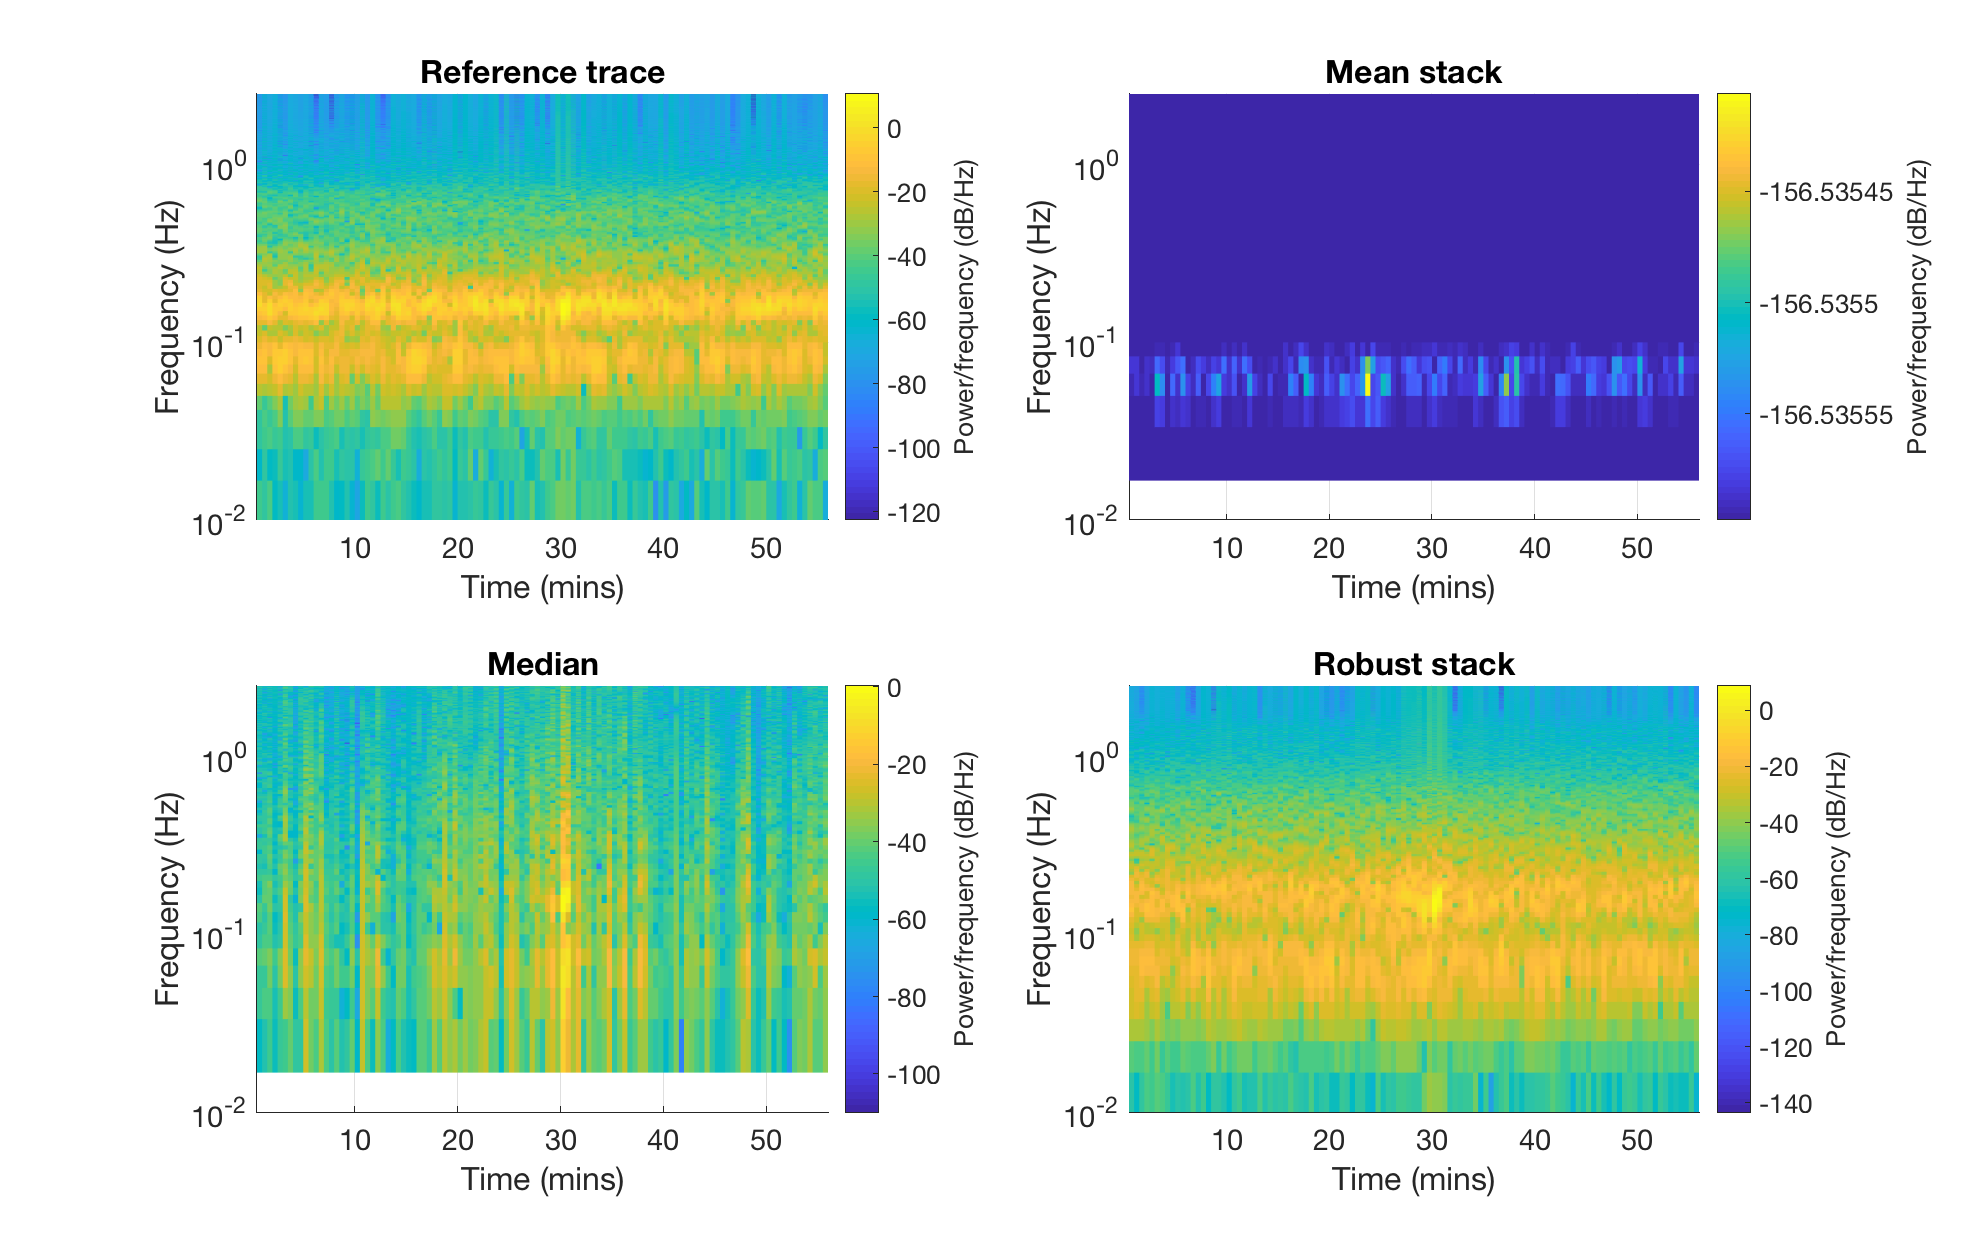
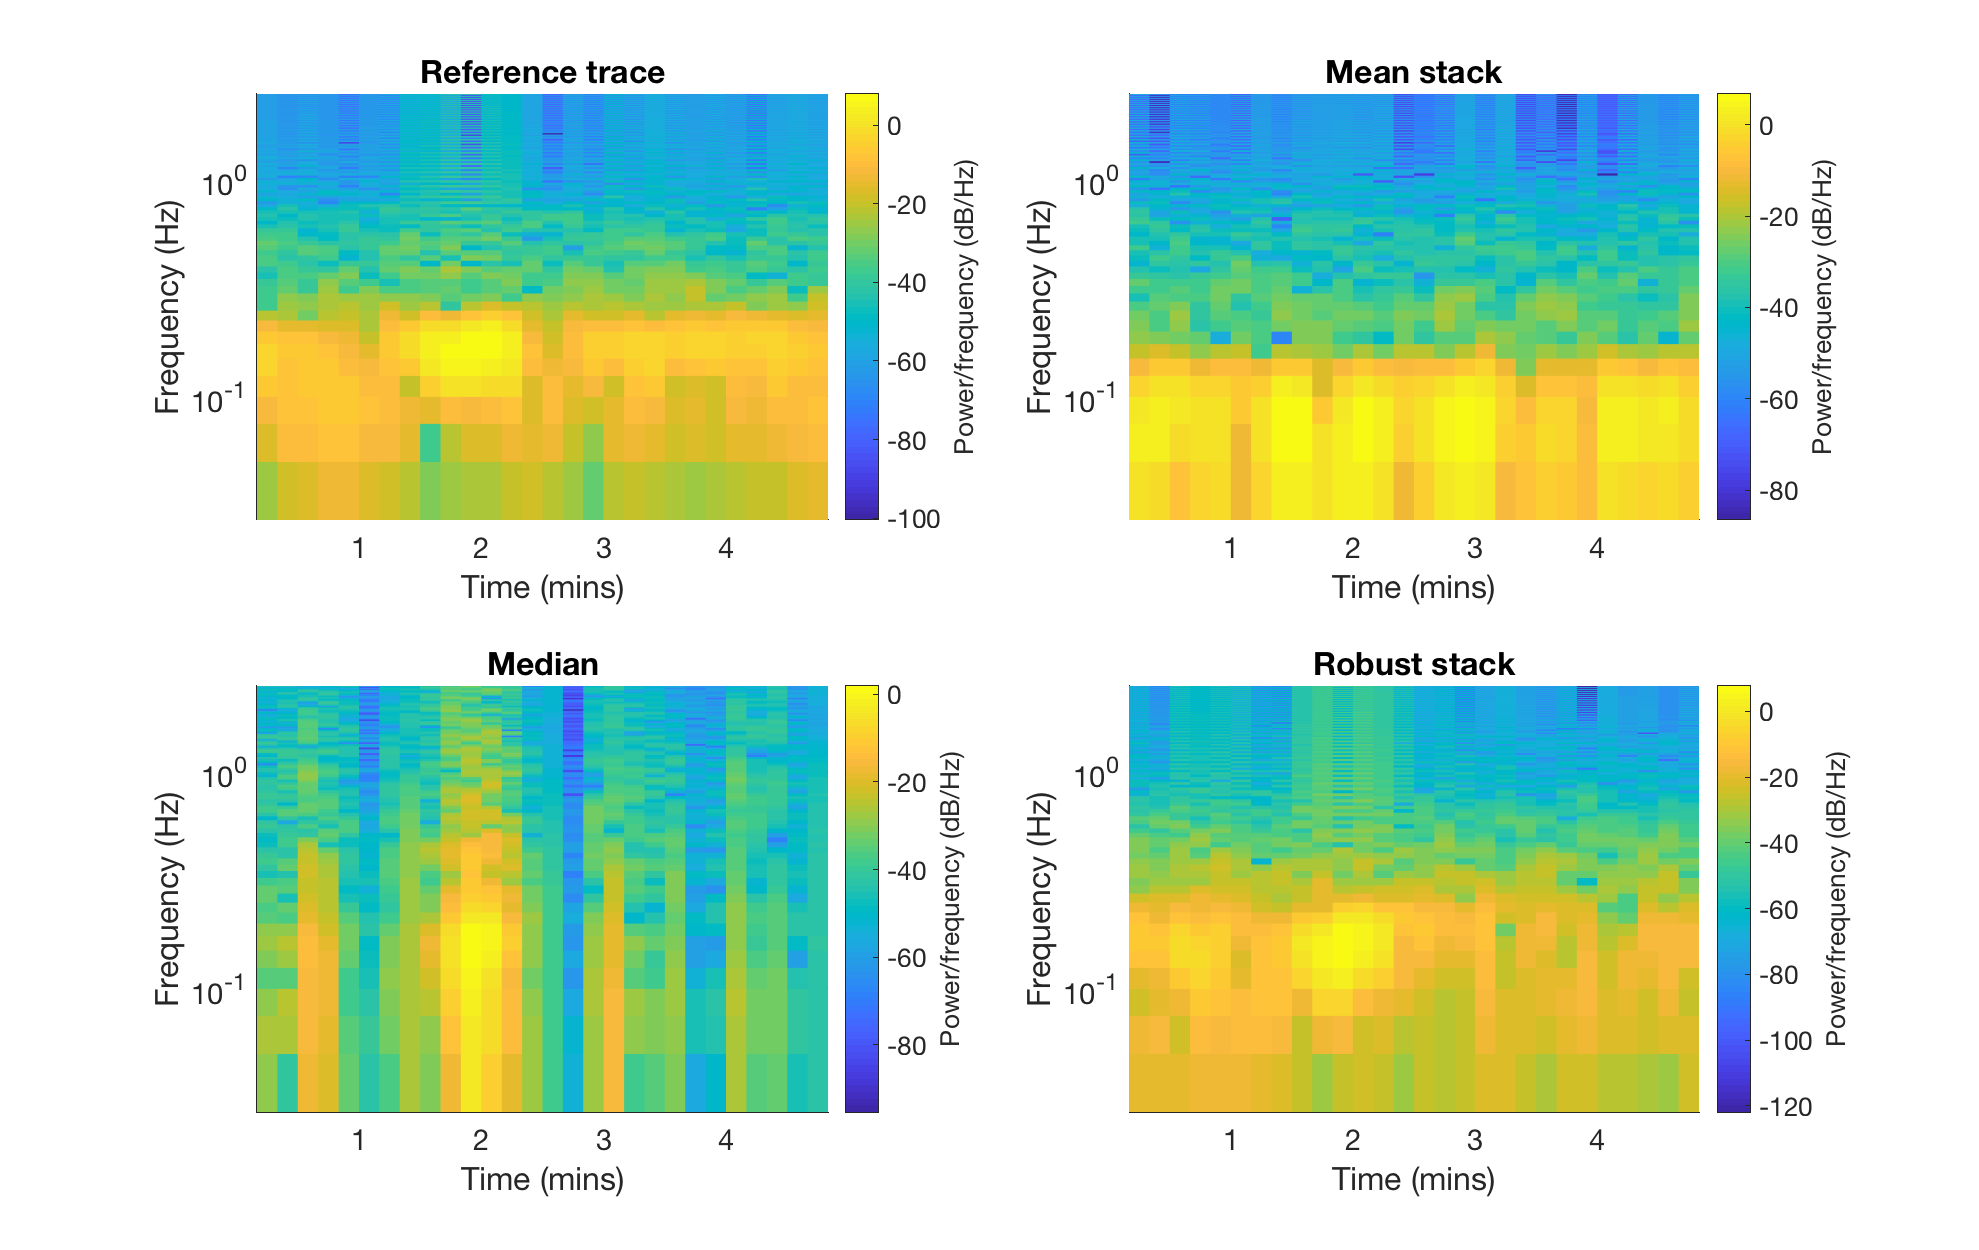
fix time axis to plot only positive lags in spectrograms

diff --git a/smartstack/call_smartstack.m b/smartstack/call_smartstack.m
@@ -89,32 +89,37 @@ set(gca,'TickDir','out','fontsize',14)
 saveas(gca,'smartstack_example.png','png')
 
 %% plot spectrum of the traces
-myylim=[0.01 2.5];
+zeroerror=dt/100; % used to define whether the timeflag is zero, bounded by -1*thisvalue and 1*thisvalue.
+zeroidx=find(timeflag(:,1) > -1.0*zeroerror & timeflag(:,1) < zeroerror);
+% itmax=round((300 - timeflag(1))/dt);
+
+specwind=100;
+myylim=[0.027 2.5];
 figure('position',[400 400 950 600])
 subplot(2,2,1)
-dref=din(:,reftraceid)/max(abs(din(:,reftraceid)));
-spectrogram(dref,300,150,600,5,'yaxis');ax=gca;ax.YScale = 'log';
+dref=din(zeroidx:itmax,reftraceid)/max(abs(din(zeroidx:itmax,reftraceid)));
+spectrogram(dref,specwind,specwind/2,specwind*2,1/dt,'yaxis');ax=gca;ax.YScale = 'log';
 ylim(myylim)
 title('Reference trace');
 set(gca,'FontSize',14)
 
 subplot(2,2,2)
-dmeantemp=dmean/max(abs(dmean));
-spectrogram(dmean,300,150,300,5,'yaxis');ax=gca;ax.YScale = 'log';
+dmeantemp=dmean(zeroidx:itmax)/max(abs(dmean(zeroidx:itmax)));
+spectrogram(dmeantemp,specwind,specwind/2,specwind*2,1/dt,'yaxis');ax=gca;ax.YScale = 'log';
 title('Mean stack');
 ylim(myylim)
 set(gca,'FontSize',14)
 
 subplot(2,2,3)
-dmediantemp=dmedian/max(abs(dmedian));
-spectrogram(dmediantemp,300,150,300,5,'yaxis');ax=gca;ax.YScale = 'log';
+dmediantemp=dmedian(zeroidx:itmax)/max(abs(dmedian(zeroidx:itmax)));
+spectrogram(dmediantemp,specwind,specwind/2,specwind*2,1/dt,'yaxis');ax=gca;ax.YScale = 'log';
 title('Median');
 ylim(myylim)
 set(gca,'FontSize',14)
 
 subplot(2,2,4)
-drobusttemp=drobust/max(abs(drobust));
-spectrogram(drobusttemp,300,150,600,5,'yaxis');ax=gca;ax.YScale = 'log';
+drobusttemp=drobust(zeroidx:itmax)/max(abs(drobust(zeroidx:itmax)));
+spectrogram(drobusttemp,specwind,specwind/2,specwind*2,1/dt,'yaxis');ax=gca;ax.YScale = 'log';
 title('Robust stack');
 ylim(myylim)
 set(gca,'FontSize',14)
